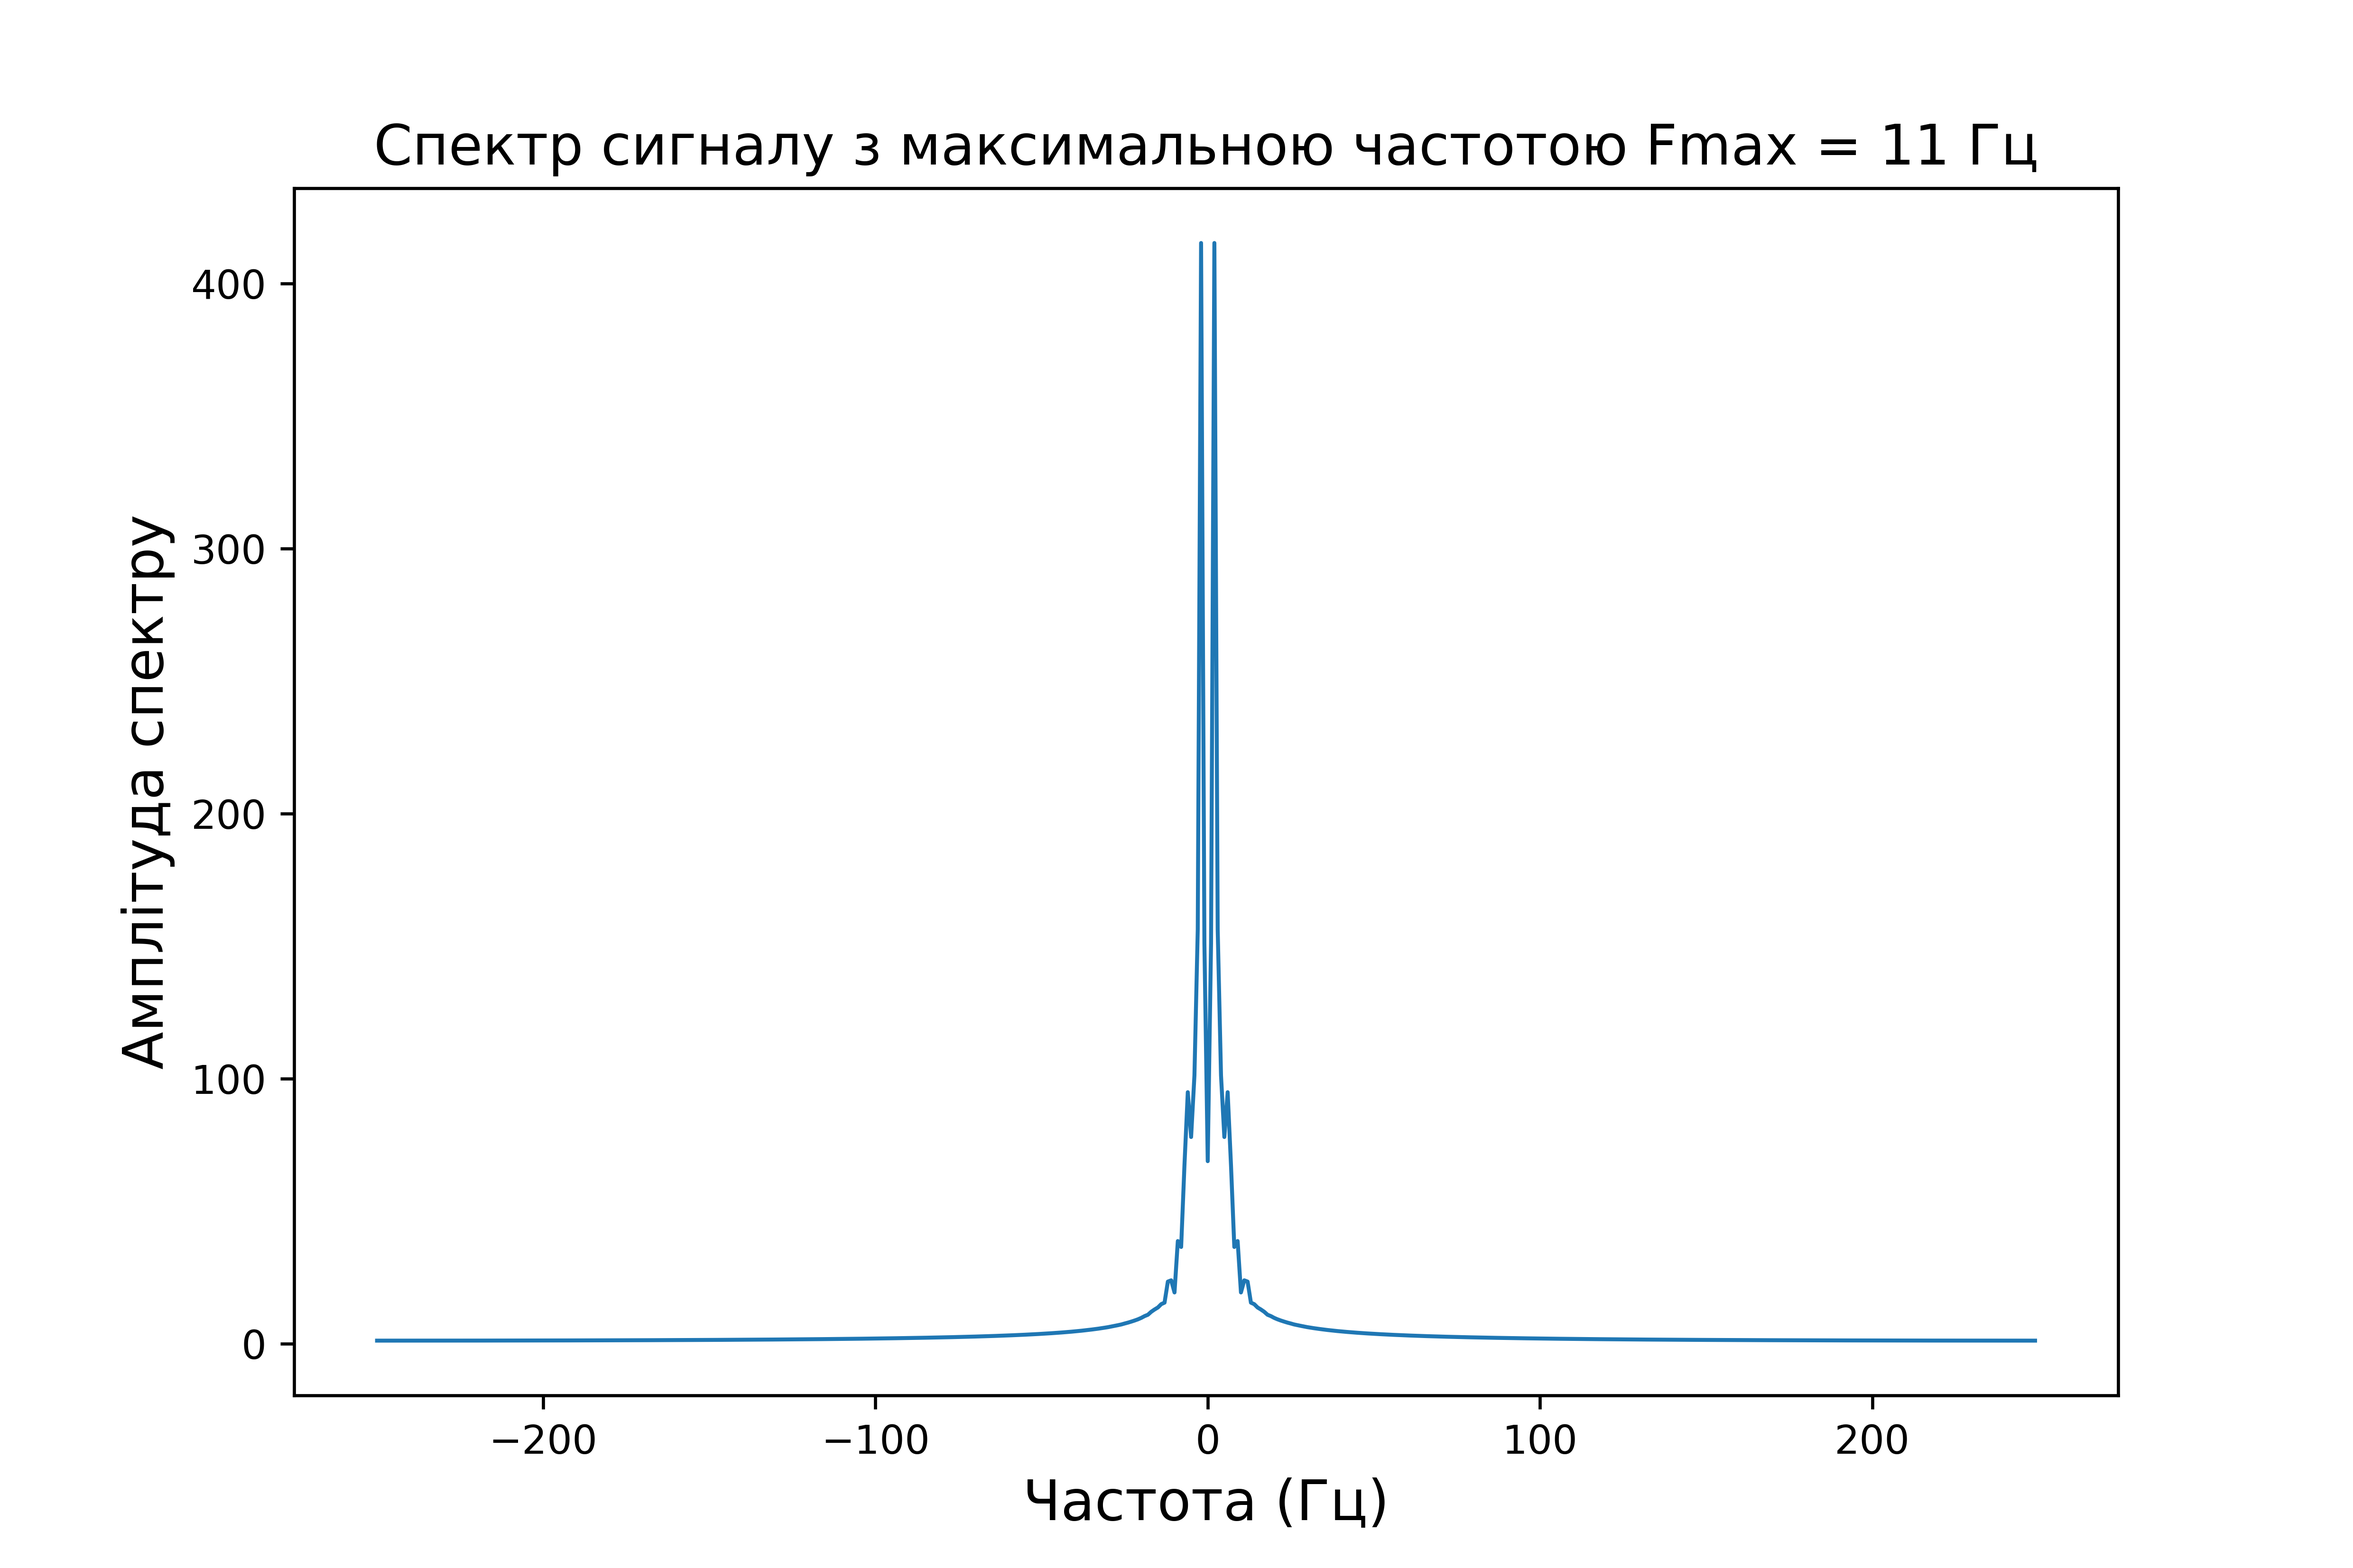
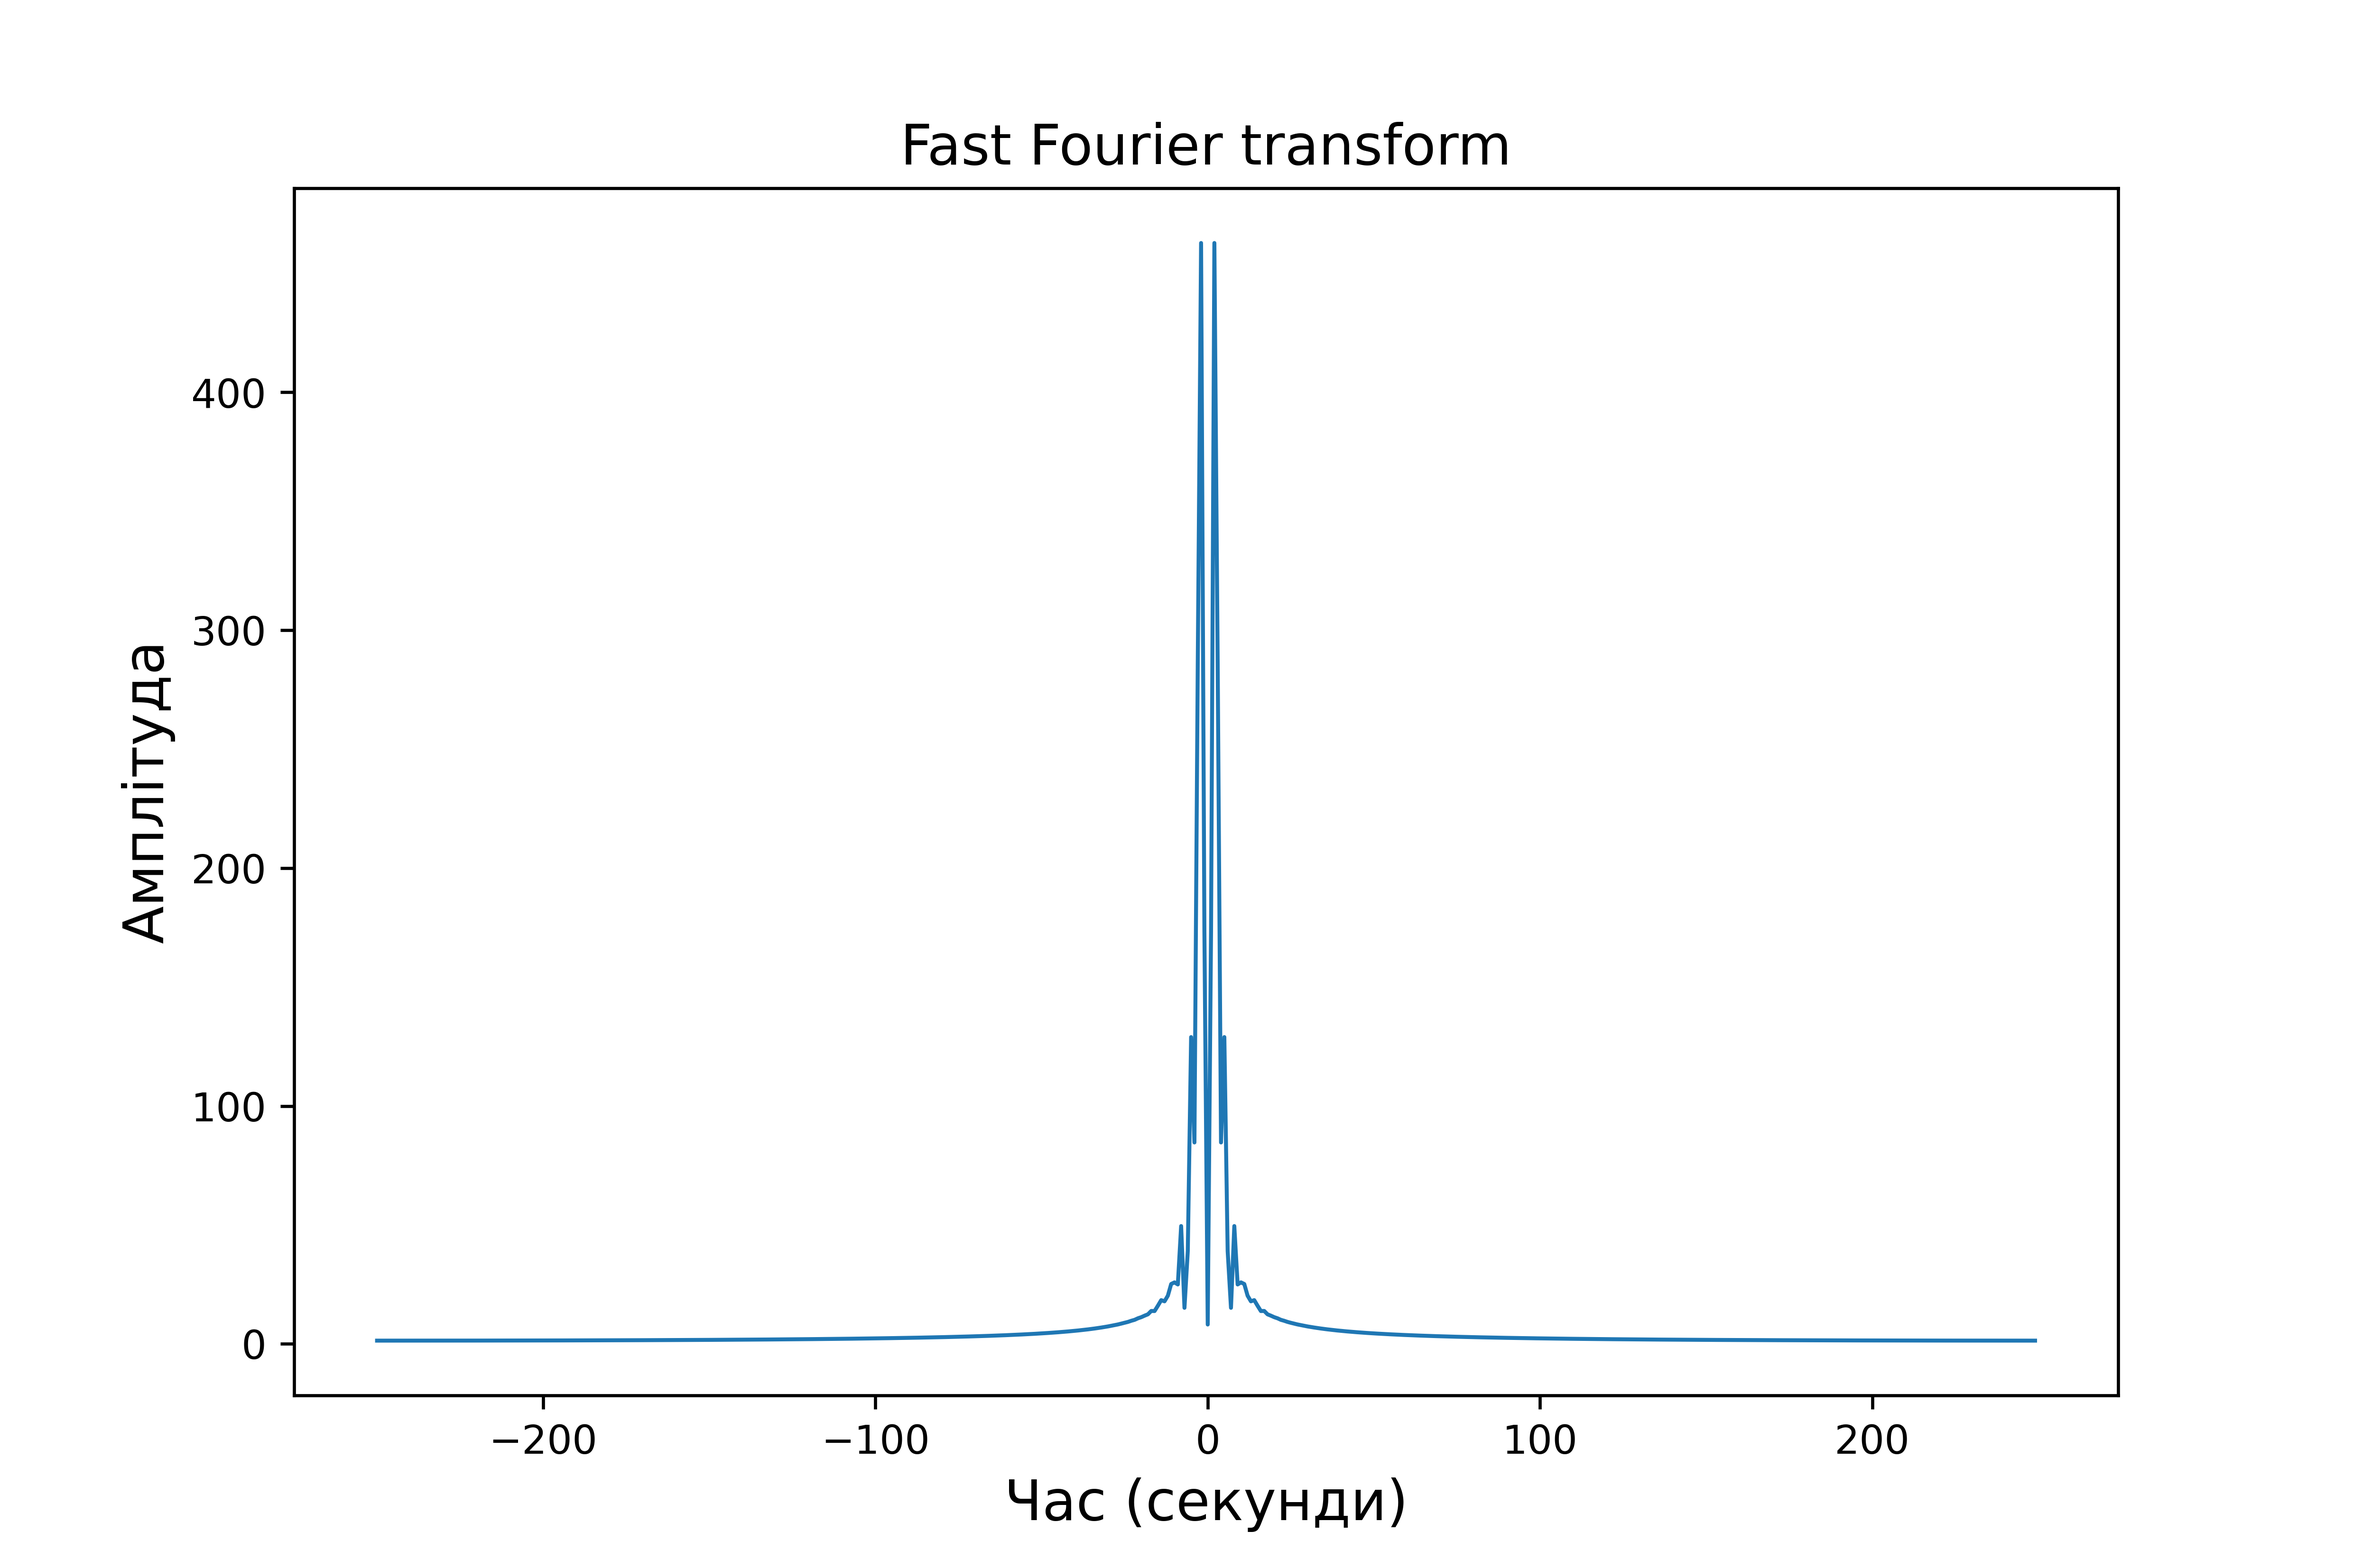
Signal processing, 2

diff --git a/SignalProcessing/SignalProcessing.py b/SignalProcessing/SignalProcessing.py
@@ -6,6 +6,7 @@ from matplotlib import pyplot as plt
 Fs = 1000
 n = 500
 F_max = 11
+F_filter = 18
 
 random_signal = numpy.random.normal(0,10,n)
 
@@ -17,15 +18,18 @@ lpf = scipy.signal.butter(3,w,'low',output='sos')
 
 filtered = scipy.signal.sosfiltfilt(lpf, random_signal)
 
-fig, ax = plt.subplots(figsize=(21/2.54, 14/2.54))
-ax.plot(time, filtered, linewidth=1)
-ax.set_xlabel("Час (секунди)", fontsize=14)
-ax.set_ylabel("Амплітуда", fontsize=14)
-title = "signal_Fmax_11Hz"
-plt.title("Сигнал з максимальною частотою Fmax = 11 Гц", fontsize=14)
-fig.savefig('./figures/' + title + '.png', dpi=600)
-plt.grid()
-plt.show()
+def plot(x, y, x_label, y_label, title):
+
+    fig, ax = plt.subplots(figsize=(21/2.54, 14/2.54))
+
+    ax.plot(x, y, linewidth=1)
+    ax.set_xlabel(x_label, fontsize=14)
+    ax.set_ylabel(y_label, fontsize=14)
+    plt.title(title, fontsize=14)
+    fig.savefig('./figures/' + title + '.png', dpi=600)
+    plt.show()
+
+#plot(time, filtered,"Час (секунди)","Амплітуда","signal_Fmax_11Hz")
 
 fast_Fourier = scipy.fft.fft(filtered)
 
@@ -35,12 +39,68 @@ freq_index = scipy.fft.fftfreq(n, 1/n)
 
 freq_index_new = scipy.fft.fftshift(freq_index)
 
-fig, ax = plt.subplots(figsize=(21/2.54, 14/2.54))
-ax.plot(freq_index_new, fast_Fourier_shifted, linewidth=1)
-ax.set_xlabel("Частота (Гц)", fontsize=14)
-ax.set_ylabel("Амплітуда спектру", fontsize=14)
-title = "Fast Fourier transform"
-plt.title("Спектр сигналу з максимальною частотою Fmax = 11 Гц", fontsize=14)
-fig.savefig('./figures/' + title + '.png', dpi=600)
-plt.grid()
-plt.show()
+#plot(freq_index_new, fast_Fourier_shifted,"Час (секунди)","Амплітуда","Fast Fourier transform")
+
+discrete_signals = []
+discrete_spectrum = []
+restored_signals = []
+E1_list  = []
+signal_to_noise_list = []
+
+for Dt in [2, 4, 8, 16]:
+
+    discrete_signal = numpy.zeros(n)
+
+    for i in range(0, round(n/Dt)):
+        discrete_signal[i * Dt] = filtered[i * Dt]
+
+    discrete_signals += [list(discrete_signal)]
+
+    spectrum = scipy.fft.fft(discrete_signal)
+    spectrum_shifted = numpy.abs(scipy.fft.fftshift(spectrum))
+
+    discrete_spectrum += [list(spectrum_shifted)]
+
+    w = F_filter/(Fs/2)
+
+    kef = scipy.signal.butter(3, w, 'low', output='sos')
+    restored = scipy.signal.sosfiltfilt(kef, discrete_signal)
+    restored_signals.append(restored)
+
+    E1 = restored-filtered
+
+    var_signal = numpy.var(filtered)
+    var_error = numpy.var(E1)
+
+    E1_list.append(var_error)
+    signal_to_noise_list.append(var_signal/var_error)
+
+def plot_2x2(x, y_list, x_label, y_label, title):
+
+    fig, ax = plt.subplots(2, 2, figsize=(21/2.54, 14/2.54))
+
+    line_width = 1
+    font_size = 14
+
+    s = 0
+    for i in range(0, 2):
+        for j in range(0, 2):
+            ax[i][j].plot(x, y_list[s], linewidth=line_width)
+            s += 1
+
+    fig.supxlabel(x_label, fontsize=font_size)
+    fig.supylabel(y_label, fontsize=font_size)
+    fig.suptitle(title, fontsize=font_size)
+
+    fig.savefig('./figures/' + title + '.png', dpi=600)
+    plt.show()
+
+plot_2x2(time, discrete_signals, "Час (секунди)", "Амплітуда","Сигнал з кроком дискретизації Dt = (2,4,8,16)")
+plot_2x2(freq_index_new, discrete_spectrum, "Частота (Гц)", "Амплітуда спектру", "Спектри сигналів з кроком дискретизації Dt = (2,4,8,16)")
+plot_2x2(time, restored_signals,"Час (секунди)", "Амплітуда сигнал", "Відновлені аналогові сигнали з кроком дискретизації Dt = (2,4,8,16)")
+
+Dt_val = [2, 4, 8, 16]
+
+plot(Dt_val, E1_list, "Крок дискретизації", "Дисперсія","Залежність дисперсії від кроку дискретизації")
+plot(Dt_val, signal_to_noise_list,"Крок дискретизації", "Сигнал/шум", "Залежність співвідношення сигнал-шум від кроку дискретизації")
+
